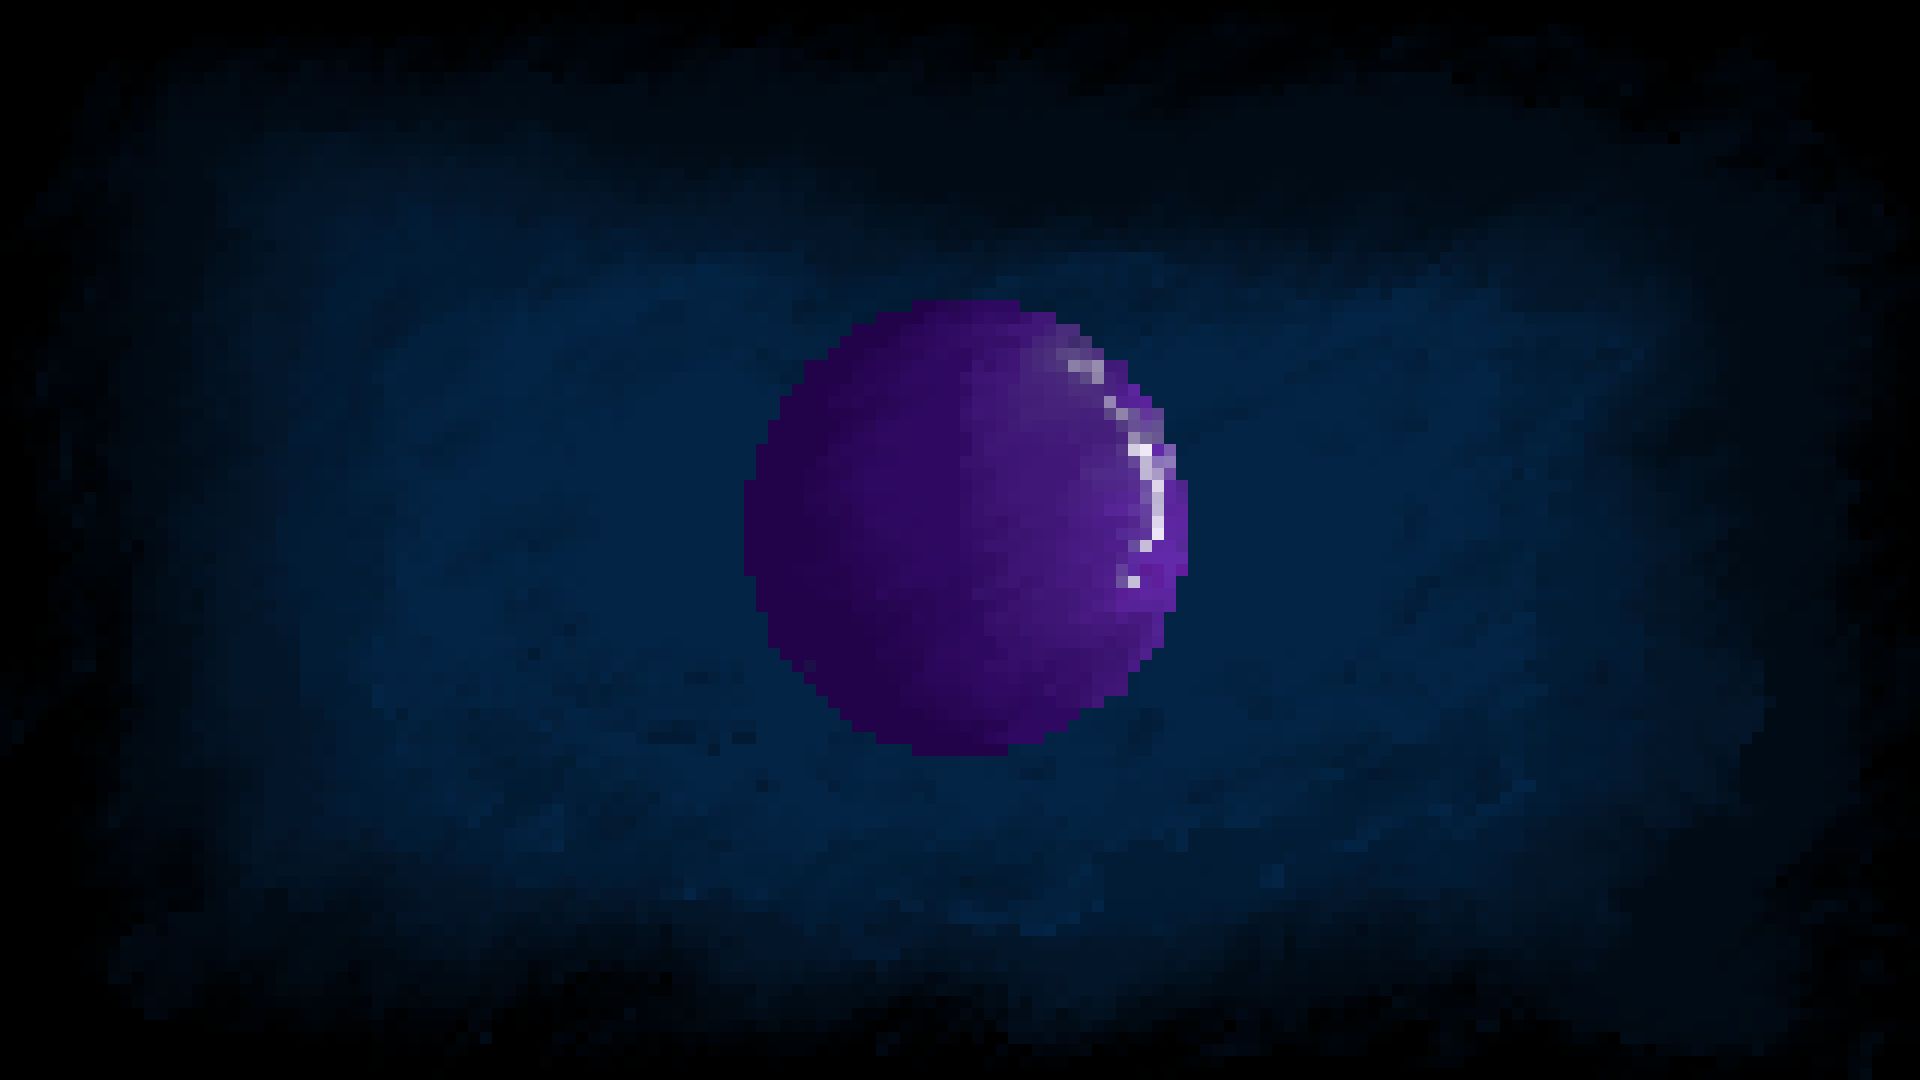
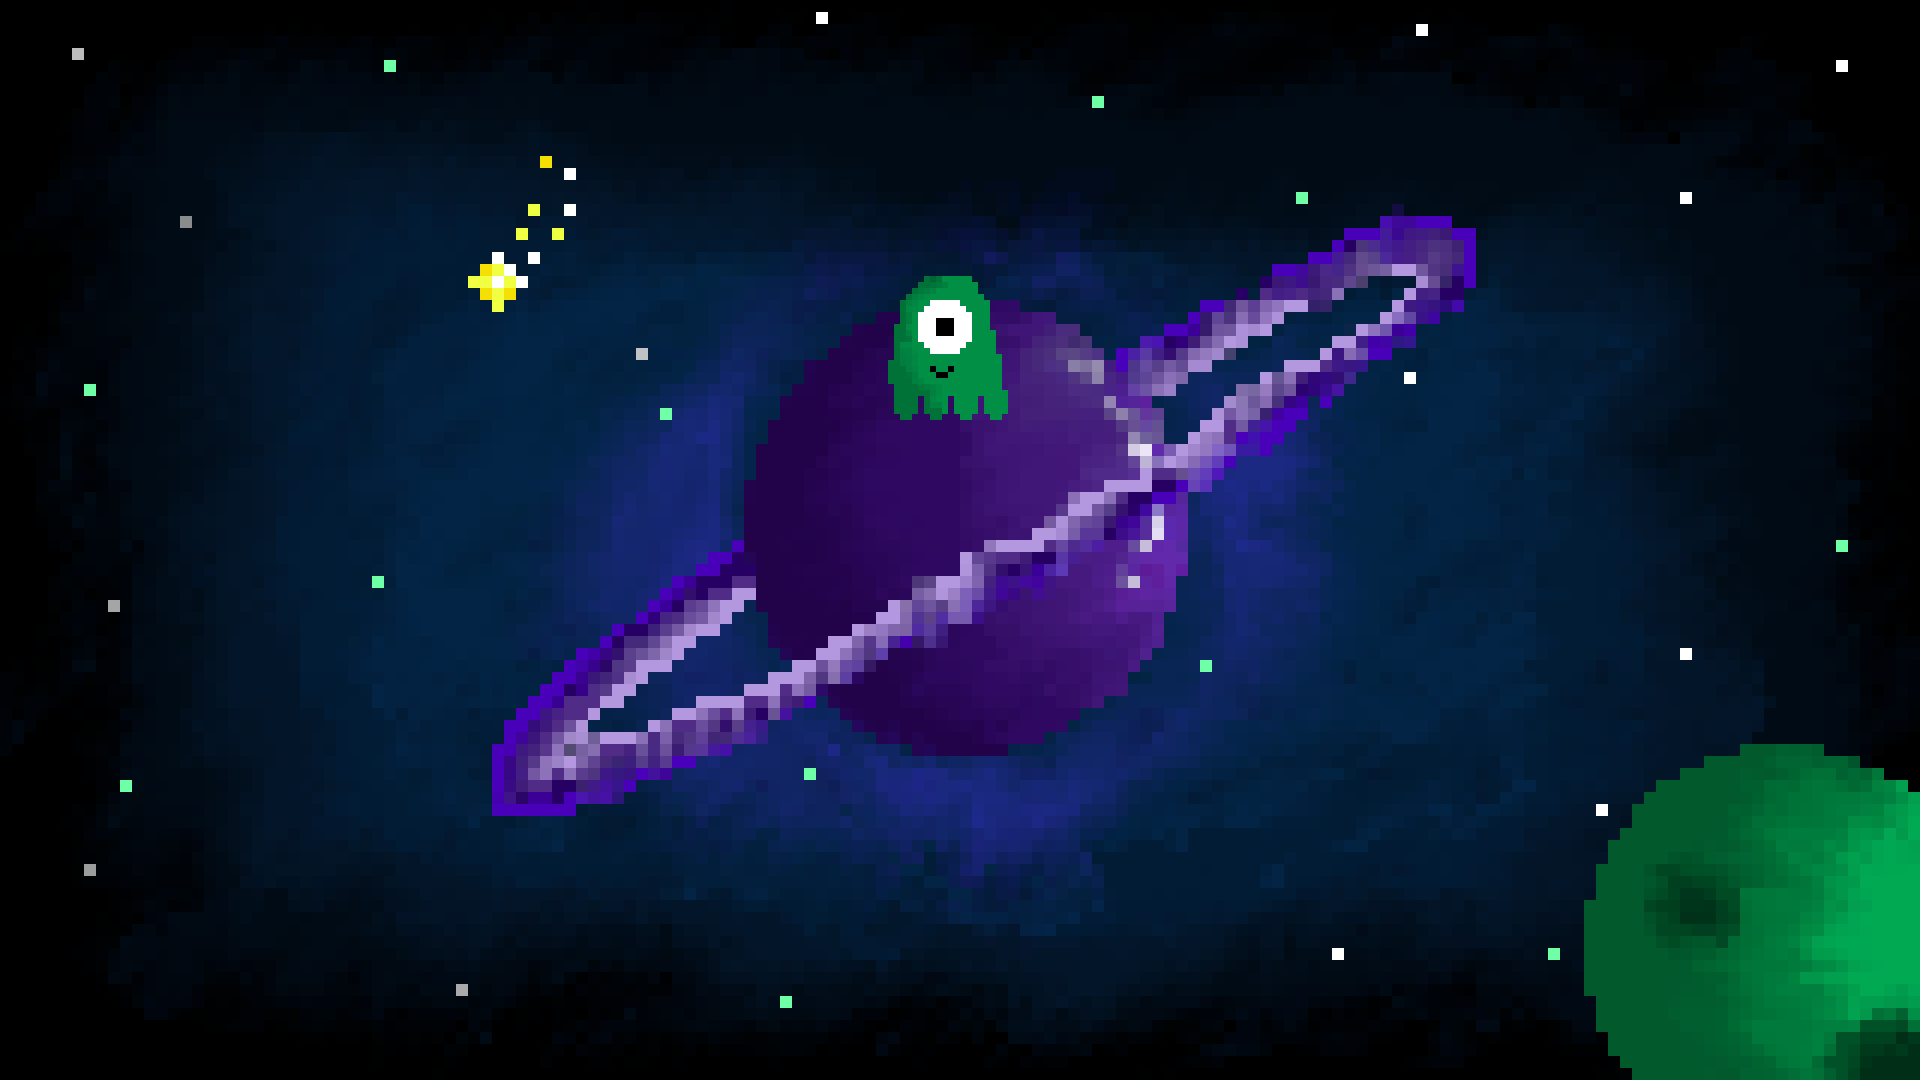
Add picture

diff --git a/src/util/constants.h b/src/util/constants.h
@@ -79,8 +79,16 @@ static const char* FILE_PATH_HEALTH_MODULE[NUM_HEALTH_MODULE_TEXTURES] = {
   "res/pics/healthModule.png",
   "res/pics/healthModuleBack.png"
 };
+
+/*
 static const char* FILE_PATH_BACKGROUND[NUM_BACKGROUNDS] = {
   "res/pics/planet1DarkBig.png",
+  "res/pics/menuBack.png"
+};
+*/
+
+static const char* FILE_PATH_BACKGROUND[NUM_BACKGROUNDS] = {
+  "res/pics/eva_space.png",
   "res/pics/menuBack.png"
 };
 
